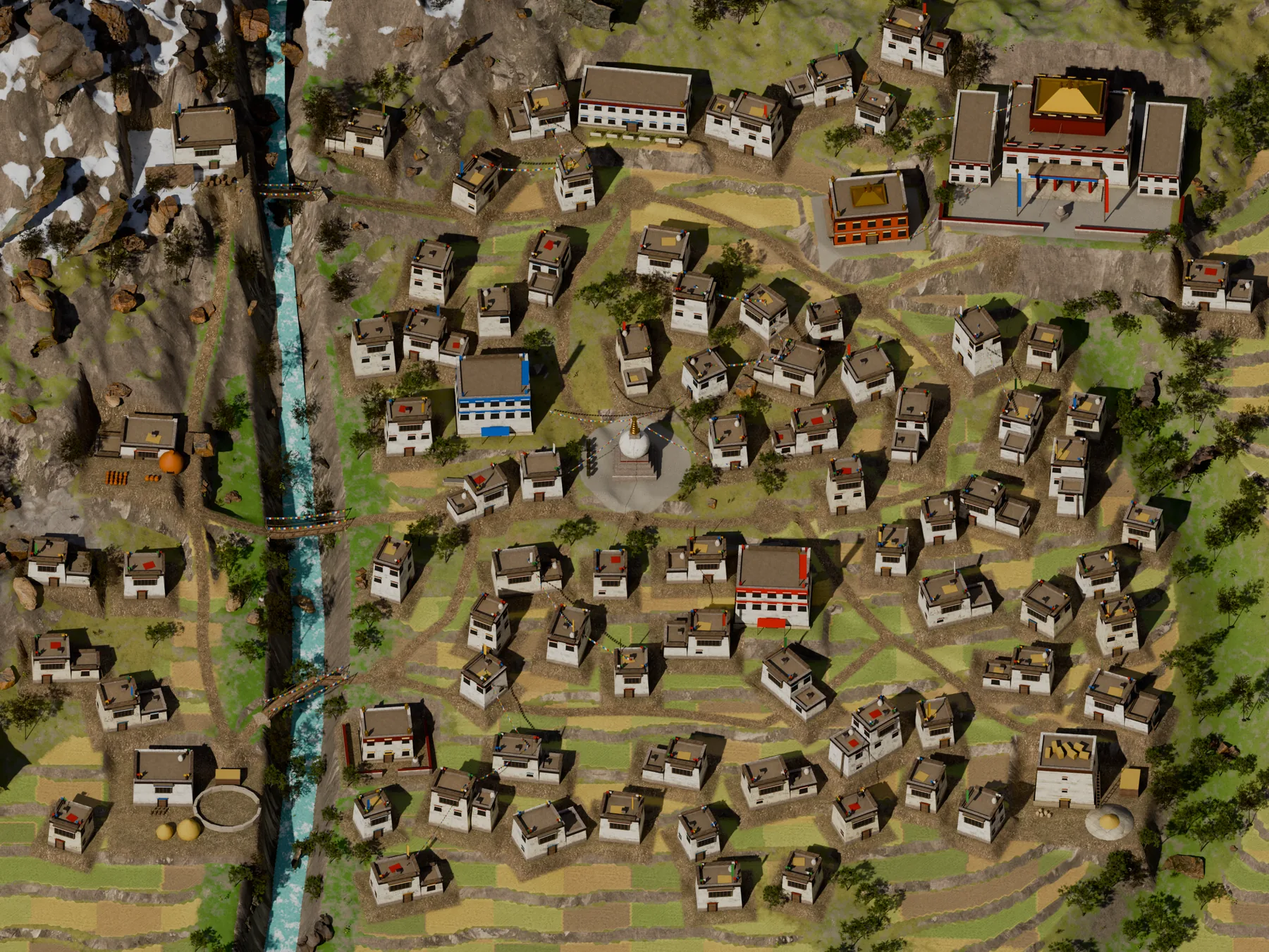
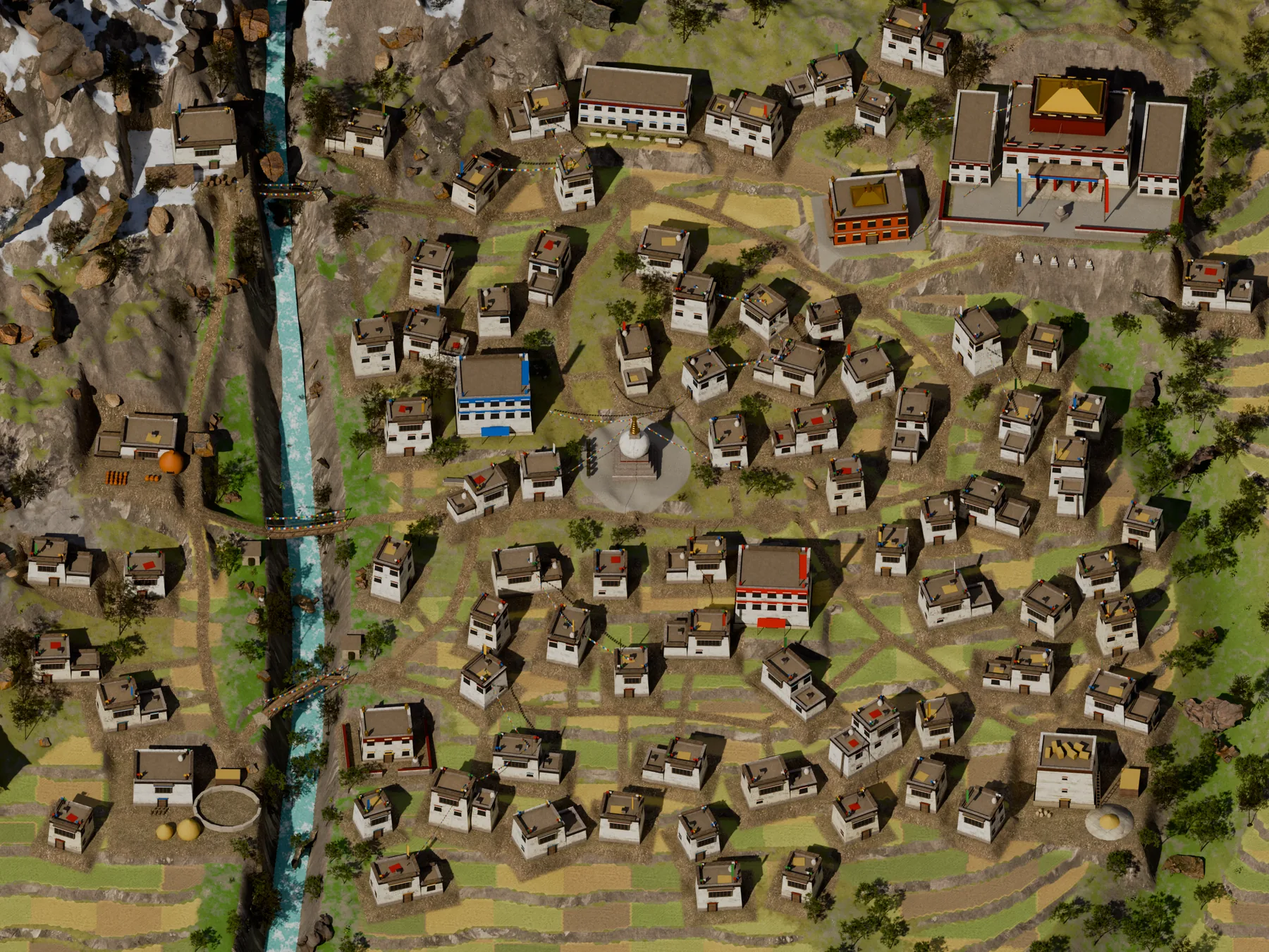
Himalaya: ways to the dzong, siege engines and stores; door paths and a kora in the town
The dzong gets what makes it a place people held: a stair up the crag to its gate
with a barbican at the foot, the old valley road barred by the besiegers, and a
walled stair down to a water tower on the stream. The camps get engines, stores
and trodden ground. In the town every house has a worn path to its lane, the gompa
its pilgrims' path, a row of chortens and prayer wheels, and the bridges their
water-turned prayer wheels. None of these is in the network.

Claude-Session: https://claude.ai/code/session_017rJoWNUXP9cqRtgFtrucTB

diff --git a/allegories/himalaya/world/siege.py b/allegories/himalaya/world/siege.py
@@ -48,7 +48,23 @@ LEVEL = {}
 for k in PLACES:
     if k == "enemy city": LEVEL[k] = pad(AT[k][0], AT[k][1], 62, 48, 45, blend=4, how="mean"); claim(AT[k][0], AT[k][1], 42, 40)
     else: LEVEL[k] = pad(AT[k][0], AT[k][1], 46, 40, 45, blend=10); claim(AT[k][0], AT[k][1], 8, 6)
-roads = carve(roads, skip=(gorge > .12).astype(np.float32), hw=1.7)
+# the dzong's own ways, which no besieger walks: the stair that climbs the crag to its gate in three turns, the old road
+# from the valley (snowed over now, and barred), and the covered stair down to the stream that waters the garrison
+DZ = AT["enemy city"]; SKIP = (gorge > .12).astype(np.float32)
+def dl(lx, ly): return loc(DZ[0], DZ[1], 45, lx, ly, 1.3)
+RB = ground_px(800, 982); vx, vy = RB[0] - DZ[0], RB[1] - DZ[1]; vl = math.hypot(vx, vy)
+STAIR = trail([dl(0, -20), dl(0, -24), dl(11, -27), dl(13, -31), dl(-9, -34), dl(-11, -38), dl(5, -41), dl(3, -45)], hw=1.5, shoulder=2.2, ease=5, cover="pave", v=1.0)
+OLD = trail([STAIR[-1][:2], (DZ[0] + vx * .82, DZ[1] + vy * .82), (RB[0] - vx / vl * 7, RB[1] - vy / vl * 7)], hw=1.6, shoulder=3.0, ease=10, cover=None)
+wx_, wy_ = (-72 - 8 * math.sin(0)), 0.0
+def near_stream(p):      # the point of the stream nearest a place
+    best = None
+    for sv in np.arange(-120, 120, 2.0):
+        tv = -72 - 8 * math.sin(sv / 45.0); q = ((tv - sv) / R2, (tv + sv) / R2); d_ = math.dist(p, q)
+        if best is None or d_ < best[0]: best = (d_, q)
+    return best[1]
+W0 = dl(-23, 2); WS = near_stream(W0); wl = math.dist(W0, WS); WEND = (W0[0] + (WS[0] - W0[0]) * (wl - 9) / wl, W0[1] + (WS[1] - W0[1]) * (wl - 9) / wl)
+WATER = trail([W0, ((W0[0] + WEND[0]) / 2 + 3, (W0[1] + WEND[1]) / 2 - 3), WEND], hw=1.6, shoulder=2.0, ease=4, cover=None)
+roads = carve(roads, skip=SKIP, hw=1.7)
 for sp in L.SPANS: bridge(sp)
 
 # ---------------------------------------------------------------- the dzong
@@ -85,6 +101,37 @@ def dzong():
         for (a, b) in (((-21, -15.5, 16.4), (0, 2, 31.5)), ((21, -15.5, 16.4), (0, 2, 31.5)), ((-21, 15.5, 16.4), (0, 2, 31.5)), ((21, 15.5, 16.4), (0, 2, 31.5))): flag_line(a, b, sag=.04, size=.7)
         for (fx, fy) in ((-16, -12), (15, -11), (-4, -9)): fire(fx, fy, 11.6, .45, 120.0)           # watch fires on the wall-walk
 dzong()
+def approach():
+    """What makes the fortress a place people lived in and held: the gate stair with its parapet and its barbican, the road
+    below barred by the besiegers, and the walled stair down to the water with its tower at the stream."""
+    steps(STAIR, 2.6)
+    for a, b in zip(STAIR[::3], STAIR[3::3]):      # a parapet on the stair's outer side
+        dx, dy = b[0] - a[0], b[1] - a[1]; Lg = math.hypot(dx, dy)
+        if Lg < .5: continue
+        ox, oy = -dy / Lg, dx / Lg
+        if (a[0] + ox - DZ[0]) ** 2 + (a[1] + oy - DZ[1]) ** 2 < (a[0] - ox - DZ[0]) ** 2 + (a[1] - oy - DZ[1]) ** 2: ox, oy = -ox, -oy
+        m = ((a[0] + b[0]) / 2 + ox * 1.9, (a[1] + b[1]) / 2 + oy * 1.9); boxr("wash:" + WHITE, "paint:" + MAROON, m[0], m[1], Lg + .3, .6, min(a[2], b[2]) - 1.5, max(a[2], b[2]) + 1.1, math.degrees(math.atan2(dy, dx)), va=.6)
+    gx, gy, gz = STAIR[-1]                                             # the barbican at the stair's foot: a small gate tower, shut
+    with placed_s(gx, gy, 45, gz, 1.2):
+        T = battered("wash:" + WHITE, 0, 0, 7.5, 6, -3, 7.5, 0, .05, va=.5); parapet(T, 7.5, MAROON, .7, .18); door(0, 0, 7.5, 6, 0, 0, .5, 0, 2.2, 3.0, "#e2b53a", out=.3)
+        for sx in (-2.2, 2.2): window(0, 0, 7.5, 6, 0, 0, .5 + sx / 7.5, 4.6, .8, 1.1, lit=True)
+        lathe("gold", 0, 0, [(.35, 7.3), (.45, 8.2), (.05, 9.0)], 8)
+    claim(gx, gy, 6, 9); fire(*loc(gx, gy, 45, 5.5, -1.5, 1.2), gz, .4, 110.0)
+    for k in range(0, len(OLD) - 6, 7):                                # the old road: cairns along it under the snow
+        x, y, z = OLD[k]; dx, dy = OLD[k + 3][0] - x, OLD[k + 3][1] - y; Lg = math.hypot(dx, dy) or 1
+        for sd in (-1, 1): lathe("rubble", x - dy / Lg * 2.6 * sd, y + dx / Lg * 2.6 * sd, [(.55, z - .3), (.4, z + .5), (.1, z + .9)], 6, va=.5)
+    x, y, z = OLD[-1]; dx, dy = OLD[-1][0] - OLD[-6][0], OLD[-1][1] - OLD[-6][1]; Lg = math.hypot(dx, dy); px_, py_ = -dy / Lg, dx / Lg      # barred where it meets the besiegers' track
+    stone_wall([(x - px_ * 7, y - py_ * 7), (x + px_ * 7, y + py_ * 7)], 1.5, .9); stakes(x - px_ * 9 - dx / Lg * 2.5, y - py_ * 9 - dy / Lg * 2.5, x + px_ * 9 - dx / Lg * 2.5, y + py_ * 9 - dy / Lg * 2.5)
+    for a, b in zip(WATER[::4], WATER[4::4]):                          # the water stair: walled on both sides and roofed, stepping down the crag
+        dx, dy = b[0] - a[0], b[1] - a[1]; Lg = math.hypot(dx, dy)
+        if Lg < .5: continue
+        m = ((a[0] + b[0]) / 2, (a[1] + b[1]) / 2); zlo, zhi = min(a[2], b[2]), max(a[2], b[2]); boxr("wash:" + WHITE, "roof", m[0], m[1], Lg + .5, 3.6, zlo - 2, zhi + 3.2, math.degrees(math.atan2(dy, dx)), va=.7)
+        boxr("paint:" + MAROON, None, m[0], m[1], Lg + .6, 3.8, zhi + 2.7, zhi + 3.2, math.degrees(math.atan2(dy, dx)))
+    x, y, z = WATER[-1]
+    with placed_s(x, y, math.degrees(math.atan2(WS[1] - W0[1], WS[0] - W0[0])), z, 1.2):      # the water tower, on the bank
+        T = battered("wash:" + WHITE, 0, 0, 6.5, 6.5, -4, 10, 0, .05, va=.3); parapet(T, 10, MAROON, .7, .18)
+        for side in range(4): window(0, 0, 6.5, 6.5, 0, side, .5, 6.5, .8, 1.1, lit=side < 2)
+    claim(x, y, 6, 12)
 
 # ---------------------------------------------------------------- the camps
 def tent(x, y, rot, Lg=5.0, w=3.6, h=2.4, cloth="canvas:#d6cdb8", trim=None, lit=False):
@@ -135,7 +182,34 @@ def camp(k, chief=False):
     for _ in range(3):      # banners
         a = g.uniform(0, 6.28); bx, by = x + 12 * math.cos(a), y + 12 * math.sin(a)
         if path_dist(bx, by) > 3 and all(math.hypot(bx - a_, by - b_) > rr + 1 for a_, b_, rr in spots): pole(bx, by, zt(bx, by), 6.5, g=g)
-camp("camp A"); camp("camp B"); camp("camp C"); camp("commander's camp", chief=True)
+def trebuchet(x, y, rot):
+    """A counterweight engine: a timber frame on a sledge base, the long arm with its box of stones, the sling laid out behind."""
+    z = zt(x, y)
+    with placed_s(x, y, rot, z, 1.5):
+        for sy in (-1.3, 1.3):
+            bar("wood:#5a4636", (-3.2, sy, .15), (3.2, sy, .15), .3, .3); bar("wood:#5a4636", (-1.9, sy, .2), (0, sy, 4.6), .22, .22); bar("wood:#5a4636", (1.9, sy, .2), (0, sy, 4.6), .22, .22)
+        for sx in (-3.0, 0, 3.0): bar("wood:#5a4636", (sx, -1.3, .15), (sx, 1.3, .15), .26, .26)
+        beam("wood:#4d3d2e", (0, -1.5, 4.6), (0, 1.5, 4.6), .14, 6); bar("wood:#6b5846", (2.2, 0, 6.3), (-5.2, 0, 1.9), .26, .3)
+        boxr("wood:#4d3d2e", "rubble", 2.5, 0, 1.6, 1.4, 4.9, 6.3); beam("paint:#2a221c", (-5.2, 0, 1.9), (-6.6, 0, .25), .04, 4)
+        for k in range(5): lathe("rubble", -4.2 + (k % 3) * .5, 2.2 + (k // 3) * .5, [(.26, 0), (.3, .22), (.1, .45)], 6)
+    claim(x, y, 6, 8)
+def stores(x, y):
+    z = zt(x, y)
+    with placed_s(x, y, g.uniform(0, 90), z, 1.3):
+        for k in range(g.randint(4, 7)): boxr("wood:#6b5846", "wood:#7a6248", g.uniform(-1.6, 1.6), g.uniform(-1.2, 1.2), g.uniform(.8, 1.2), g.uniform(.7, 1.0), 0, g.uniform(.6, 1.3), g.uniform(0, 40))
+        for k in range(5): lathe("cloth:#b9a47e", 2.4 + (k % 3) * .6, -.5 + (k // 3) * .7, [(.3, 0), (.36, .25), (.3, .6), (.12, .72)], 7)
+        bar("wood:#5a4636", (-3.2, -1.6, .25), (-3.2, 1.6, .25), .14, .14); bar("wood:#5a4636", (-4.6, -1.6, .25), (-4.6, 1.6, .25), .14, .14); boxr("wood:#6b5846", "cloth:#b9a47e", -3.9, 0, 1.6, 2.6, .3, .9)      # a sledge, loaded
+    claim(x, y, 4.5, 2)
+camp("camp A"); camp("camp B"); camp("camp C"); camp("commander's camp", chief=True); approach()
+for k in ("camp A", "camp B", "camp C", "commander's camp"):
+    (x, y) = AT[k]; dx, dy = DZ[0] - x, DZ[1] - y; Lg = math.hypot(dx, dy); fx, fy = dx / Lg, dy / Lg
+    for (o1, o2) in ((44, 20), (44, -20)):
+        tx, ty = x + fx * o1 - fy * o2, y + fy * o1 + fx * o2
+        if path_dist(tx, ty) > 7 and free(tx, ty, 6, 1) and bil(gdist, tx, ty) > 14 and not hides(tx, ty, 3, 8): trebuchet(tx, ty, math.degrees(math.atan2(fy, fx))); paint_disc("bare", tx, ty, 6, .7, 3); break
+    for _ in range(30):
+        a = g.uniform(0, 6.28); tx, ty = x + 17 * math.cos(a), y + 17 * math.sin(a)
+        if path_dist(tx, ty) > 4 and free(tx, ty, 4.5, .5) and not hides(tx, ty, 3, 2): stores(tx, ty); break
+    footpath((x, y), DOOR[k], 1.6, .9)
 # watch fires along the ring, on the side away from the fortress, and a breastwork of stones before each
 for r in roads[:1]:
     for i, (x, y, ux, uy, dd) in enumerate(along([(p[0], p[1]) for p in r["pts"]], 46.0)):

diff --git a/allegories/himalaya/world/city.py b/allegories/himalaya/world/city.py
@@ -289,6 +289,30 @@ for (hx, hy, hz, hr) in list(kit.ROOFS):
             rr = [(yx + 4 * math.cos(t) * g.uniform(.85, 1.1), yy + 3.4 * math.sin(t) * g.uniform(.85, 1.1)) for t in [math.radians(q) for q in range(0, 331, 30)]]
             stone_wall(rr + rr[:1], .95, .55); claim(yx, yy, 4.0, 1.2); paint_disc("bare", yx, yy, 3.2, .8, 1.5)
             if g.random() < .5: lathe("straw", yx, yy, [(1.3, zt(yx, yy) - .3), (1.45, zt(yx, yy) + .8), (.8, zt(yx, yy) + 1.9), (.08, zt(yx, yy) + 2.5)], 10, va=g.random())
+# a worn path from every house to the nearest lane
+for (hx, hy, hz, hr) in kit.ROOFS:
+    d_ = np.hypot(L.PS[:, 0] - hx, L.PS[:, 1] - hy); i = int(np.argmin(d_))
+    if d_[i] < 34: footpath((hx, hy), (float(L.PS[i, 0]), float(L.PS[i, 1])), .9, .75)
+# the gompa's kora: the path the pilgrims walk round it, a row of eight chortens beside the court, a mani wall on the way up
+(gx_, gy_), gz_ = AT["temple"], LEVEL["temple"]
+for k in range(8):
+    cx_, cy_ = loc(gx_, gy_, 40, -15.5 + k * 3.0, -19.0)
+    if path_dist(cx_, cy_) > 2.6: little_chorten(cx_, cy_, zt(cx_, cy_), .78)
+ring_ = [loc(gx_, gy_, 40, 25 * math.cos(math.radians(t)), 4 + 20.5 * math.sin(math.radians(t))) for t in range(0, 361, 15)]
+for a, b in zip(ring_, ring_[1:]): footpath(a, b, 1.1, .8)
+for k in range(10):      # prayer wheels along the kora's east side
+    wx, wy = loc(gx_, gy_, 40, 22.2, -6 + k * 2.0)
+    if path_dist(wx, wy) > 2.2: cyl("bronze", wx, wy, .45, zt(wx, wy) + 1.1, zt(wx, wy) + 2.5, 8); cyl("wood:#6b5846", wx, wy, .07, zt(wx, wy) - .2, zt(wx, wy) + 3.0, 4)
+ma, mb = ground_px(1215, 420), ground_px(1232, 362)
+if path_dist(*ma) > 2.4 and path_dist(*mb) > 2.4: mani_wall(ma[0], ma[1], mb[0], mb[1])
+# water-turned prayer wheels in little stone houses by the river, below each bridge
+for sp in L.SPANS:
+    ex, ey, ez = sp[0]; dx, dy = sp[-1][0] - ex, sp[-1][1] - ey; Lg = math.hypot(dx, dy); hx_, hy_ = ex - dx / Lg * 4.5 + dy / Lg * 7, ey - dy / Lg * 4.5 - dx / Lg * 7
+    if path_dist(hx_, hy_) > 3.5 and free(hx_, hy_, 3, .5) and not hides(hx_, hy_, 2.5, 4):
+        z_ = pad(hx_, hy_, 5, 5, 45, blend=2)
+        with placed_s(hx_, hy_, 45, z_): T = battered("rubble", 0, 0, 3.2, 3.2, -2, 2.6, 0, .04); cap("roof", grow(T, .3), 2.6); cyl("bronze", 0, -1.75, .5, .6, 1.9, 8)
+        claim(hx_, hy_, 3, 4)
+
 # strings of prayer flags from roof to roof across the lanes
 nf = 0
 for i, (ax, ay, az, ar) in enumerate(kit.ROOFS):

diff --git a/allegories/himalaya/world/kit.py b/allegories/himalaya/world/kit.py
@@ -135,6 +135,26 @@ def carve(roads, hw=1.5, shoulder=3.4, ease=16, skip=None):
                 if best is None or dd < best[0]: best = (dd, i)
             if best and best[0] < 1.6: P.insert(best[1] + 1, [e[0], e[1], round((P[best[1]][2] + P[best[1] + 1][2]) / 2, 2)])
     L.PS = np.array(ps, np.float32); return out
+def trail(pts, hw=1.3, shoulder=2.6, ease=8, cover="bare", v=.85, skip=None):
+    """A way that no courier walks (a stair up to a gate, a path to a door): the land is benched along it and its cover painted,
+    and it is left out of the network. Returns its points [(x, y, z)] every metre. Lay these before the network is carved."""
+    S_ = [(x, y) for x, y, *_ in along([(p[0], p[1]) for p in pts], 1.0)] + [tuple(pts[-1][:2])]
+    zs = np.array([zt(x, y) for x, y in S_]); k_ = min(ease, max(1, len(zs) // 2)); zz = np.convolve(np.pad(zs, k_, mode="edge"), np.ones(2 * k_ + 1) / (2 * k_ + 1), mode="valid"); R = hw + shoulder
+    for (x, y), z in zip(S_, zz):
+        if skip is not None and bil(skip, x, y) > .5: continue
+        sj, si = _win(x, y, R); d = np.hypot(X[sj, si] - x, Y[sj, si] - y); f = 1 - sstep(hw, R, d); L.Z[sj, si] = L.Z[sj, si] * (1 - f) + z * f
+        if cover: L.COV[cover][sj, si] = np.maximum(L.COV[cover][sj, si], v * (1 - sstep(hw * .7, hw + .8, d)))
+    return [(x, y, zt(x, y)) for x, y in S_]
+def steps(tr, w=2.2, key="ashlar", every=1.0, min_rise=.12):
+    """Stone treads across a trail wherever it climbs."""
+    for a, b in zip(tr[::1], tr[1:]):
+        if abs(b[2] - a[2]) < min_rise * math.dist(a[:2], b[:2]): continue
+        ang = math.degrees(math.atan2(b[1] - a[1], b[0] - a[0])); boxr(key, key, a[0], a[1], .7, w, min(a[2], b[2]) - .6, max(a[2], b[2]) + .04, ang, va=.4)
+def footpath(a, b, r=1.0, v=.8, cover="bare"):
+    """Ground worn bare between two points, as between a door and the lane."""
+    n = max(1, int(math.dist(a, b) / 1.2))
+    for i in range(n + 1): paint_disc(cover, lerp(a[0], b[0], i / n), lerp(a[1], b[1], i / n), r, v, 1.0)
+
 def path_dist(x, y): return bil(L.PD, x, y)
 def hides(x, y, r, h):
     """Would something this wide and tall, standing here, come between the camera and a walker on a path?"""
